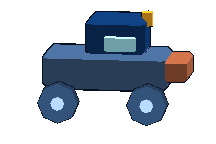
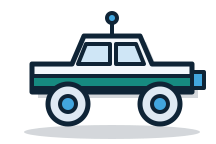
🧑🚀🚙 ↝ [SSL-428 SSL-423]: Base staff and the road rover redrawn as outlined blueprint parts and placed on the Earth Base on web and native

diff --git a/native/App/Screens/HubScreen.swift b/native/App/Screens/HubScreen.swift
@@ -24,6 +24,7 @@ struct HubScreen: View {
                          x: w * xs[1], groundY: groundY + 2 * k) { store.go(.hangar) }
                 building("Exchange", sprite: "base/exchange_flat.png", aspect: 1153.0 / 461, width: 210 * k * 0.62,
                          x: w * xs[2], groundY: groundY + 2 * k) { store.go(.market) }
+                BaseTraffic(width: w, groundY: groundY, k: k).allowsHitTesting(false)
                 skyCraft(width: w, height: h)
                 topHud
                 dock.frame(maxHeight: .infinity, alignment: .bottom)
@@ -148,6 +149,30 @@ private struct PlanetBackdrop: View {
             }
             .frame(width: d, height: d)
             .position(c)
+        }
+    }
+}
+
+/// Layer part: ambient base traffic. An outlined road rover loops along the apron and two staff
+/// figures pace between the buildings (mirrors web RoadRover + CrewWalkers).
+private struct BaseTraffic: View {
+    let width: CGFloat, groundY: CGFloat, k: CGFloat
+    @Environment(\.accessibilityReduceMotion) private var reduceMotion
+
+    var body: some View {
+        TimelineView(.animation(minimumInterval: 1.0 / 30, paused: reduceMotion)) { ctx in
+            let t = reduceMotion ? 0 : ctx.date.timeIntervalSinceReferenceDate
+            let roverW = 56 * k, crewW = 14 * k
+            let drive = CGFloat(t.truncatingRemainder(dividingBy: 18) / 18)
+            ZStack(alignment: .topLeading) {
+                Art.view("actors/road_rover.png").resizable().aspectRatio(1.5, contentMode: .fit).frame(width: roverW)
+                    .position(x: -roverW + drive * (width + roverW * 2), y: groundY + 6 * k - roverW / 3)
+                ForEach(Array(zip([0.19, 0.63], [11.0, 15.0]).enumerated()), id: \.offset) { i, p in
+                    let phase = CGFloat(0.5 - 0.5 * cos(t / p.1 * 2 * .pi + Double(i) * 2))
+                    Art.view("actors/crew.png").resizable().aspectRatio(2.0 / 3, contentMode: .fit).frame(width: crewW)
+                        .position(x: width * (p.0 + 0.08 * phase), y: groundY + 12 * k - crewW * 0.75)
+                }
+            }
         }
     }
 }

diff --git a/web/components/game/hub/CrewWalkers.tsx b/web/components/game/hub/CrewWalkers.tsx
@@ -1,0 +1,41 @@
+'use client'
+
+import { groundOffsetCss, type SceneRoadPath } from '@/lib/scene/terrain-kit'
+
+// SSL-428: base staff, outlined blueprint figures pacing the apron between buildings.
+const CREW_SRC = '/game/assets/actors/crew.png'
+const WALKS = [
+  { from: 14, to: 24, seconds: 11, delay: 0 },
+  { from: 56, to: 70, seconds: 15, delay: -6 },
+]
+
+export function CrewWalkers({ road }: { road?: SceneRoadPath }) {
+  if (!road || road.points.length === 0) return null
+  const bottom = groundOffsetCss(road.points[0].groundOffset)
+  return (
+    <div data-testid="crew-walkers" aria-hidden="true" style={{ position: 'absolute', inset: 0, pointerEvents: 'none', zIndex: 9 }}>
+      <style>{`@keyframes ln-crew-pace{0%{left:var(--from)}50%{left:var(--to)}100%{left:var(--from)}}
+@media (prefers-reduced-motion: reduce){[data-crew]{animation:none!important}}`}</style>
+      {WALKS.map((w, i) => (
+        <img
+          key={i}
+          data-crew
+          src={CREW_SRC}
+          alt=""
+          draggable={false}
+          style={{
+            position: 'absolute',
+            bottom,
+            left: `${w.from}%`,
+            width: 'clamp(10px, 1.6vw, 20px)',
+            aspectRatio: '2 / 3',
+            transform: 'translateX(-50%)',
+            animation: `ln-crew-pace ${w.seconds}s ease-in-out ${w.delay}s infinite`,
+            ['--from' as string]: `${w.from}%`,
+            ['--to' as string]: `${w.to}%`,
+          }}
+        />
+      ))}
+    </div>
+  )
+}

diff --git a/web/components/game/screens/HubScreen.tsx b/web/components/game/screens/HubScreen.tsx
@@ -16,6 +16,7 @@ import { EarthBaseModules, EARTH_BASE_STRUCTURE_SIZES } from '@/components/game/
 export { EARTH_BASE_STRUCTURE_SIZES } from '@/components/game/hub/EarthBaseModules'
 import { SoilCrossSection } from '@/components/game/hub/SoilCrossSection'
 import { RoadRover } from '@/components/game/hub/RoadRover'
+import { CrewWalkers } from '@/components/game/hub/CrewWalkers'
 import { EARTH_BASE_WIDE } from '@/lib/scene/compositions'
 import { HubSubsurfaceView } from '@/components/game/hub/HubSubsurfaceView'
 import { Building, EmptyPlot } from '@/components/game/hub/Building'
@@ -434,6 +435,7 @@ export default function HubScreen({ player, rocketVariant = 'explorer', onboardi
           {/* World background: sky, starfield, ridge parallax, ground, plateau */}
           <HubWorldBackground phase={skyPhase} />
           <RoadRover road={EARTH_BASE_WIDE.roadPaths?.[0]} />
+          <CrewWalkers road={EARTH_BASE_WIDE.roadPaths?.[0]} />
           <SkyEventChip surface="base" />
 
           {/* Drifting ambient motes — replaces the old daylight cloud layer,
